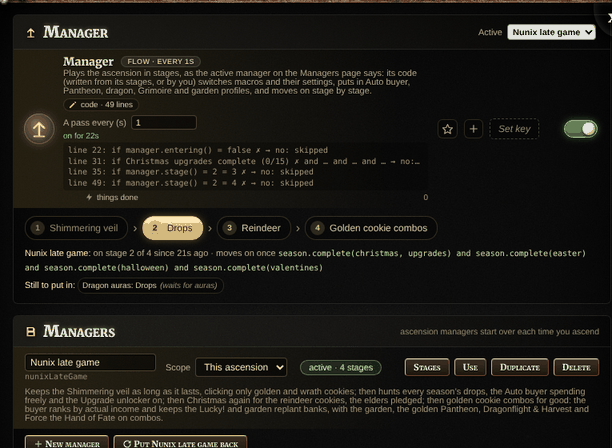
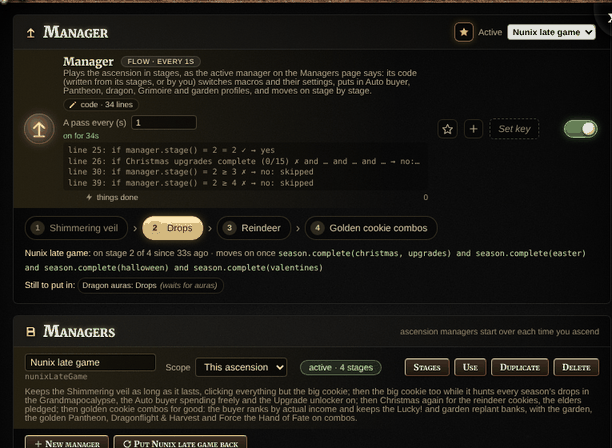
README refresh after the managers batch; restore a missing } in styles.css
The rule before the Manager widget's styles had lost its closing brace, so the
browser dropped every rule after it. GUIDE: one Managers section again.

Claude-Session: https://claude.ai/code/session_01ALSqfrVYPdvMWWjAoC9JVy

diff --git a/src/ui/styles.css b/src/ui/styles.css
@@ -9008,6 +9008,7 @@ body.ca-has-storebar #products {
 }
 #CookieMgrMenu .ca-code-gutter {
   cursor: default;
+}
 /* Manager widget: what the active manager is doing */
 #CookieMgrWidgets .ca-mw,
 #CookieMgrMenu .ca-wsample .ca-mw {

diff --git a/docs/GUIDE.md b/docs/GUIDE.md
@@ -216,6 +216,12 @@ condition, value and keyword, searchable — click one to insert it (into the co
 step), ★ to pin it at the top. Its **Lookup** tab lists the names that go inside the parentheses — spells, effects,
 macros, seasons, buildings, soils… — each with where it's used; click one to write it where the cursor is.
 
+**Code is colored by where each word comes from** — in every editor, the library beside it and the Statistics page:
+**cyan** is read straight from the game (`cookies()`, `stock.price(…)`, buildings, spells, effects), **lilac** is worked
+out by cookieMgr (`item.payback()`, `golden.expected()`, banks, the Auto buyer's queue), **pink** is a statistic
+(`stat.…`; yours are underlined), **white italic** a function (`fmt.number(x)`, `count(list)`) and **yellow** a macro
+or profile named in ( ). Actions are green, conditions blue, keywords orange. A legend under each editor says so.
+
 **Hover any word of code** — in a macro, a statistic, the gardener's rules, or a statistic's code on the Statistics
 page — and a card says what it is: an action or condition (what it does with the options written there), a value
 (and what it is now), a keyword, a variable (where it's set), a macro (`switch on golden`: its name, what it does,
@@ -417,6 +423,12 @@ The **Managers** page has:
 - **Code**: a manager is code. The stage editor writes it, a block per stage, and the Manager macro runs it each
   second. Change it and Save to make it yours (the stage editor is then off until **Back to stages**).
 
+Each stage also has **Widget watches**: what the **Manager widget** (see Widgets) shows while that stage is on. A
+watch is a label, a value in the macro language and how to show it: **as it is**, **a time** (seconds, e.g.
+`golden.expected()`), **a share** (0–1, e.g. `garden.matureShare()`) or **progress** (`[have, of]`, e.g.
+`[owned(easter), total(easter)]`, or 0–100), drawn with a bar. Its value now shows beside it. The ☆ on the Manager
+card puts the widget on the left panel.
+
 **Nunix late game** comes seeded and active:
 
 1. **Shimmering veil**, while it lasts: golden and wrath cookies and reindeer clicked, but not the big cookie
@@ -432,86 +444,16 @@ The **Managers** page has:
 
 The Auto buyer buys by payback, so it doesn't buy research or upgrades that give no CpS; the Upgrade unlocker does.
 
-Words: `manager.active()`, `manager.stage()`, `manager.stageName()`, `manager.entering()`, `manager.arriving(stage)`,
-`manager.stages()`, `manager.list()`. Actions: `manager.use(manager)`, `manager.goTo(stage)`, `manager.next()`,
-`manager.profile(kind, profile)`, `macro.setting(macro, key, value)`. `switch on a, b, c` switches several macros in
-one line, and `veil()` tells whether the Shimmering veil is up.
-
-### Payback periods
-
-cookieMgr works payback periods out itself — the numbers Cookie Monster shows, without Cookie Monster. What a
-purchase adds is asked of the game: cookieMgr makes the change (one more building, ten, a hundred, an upgrade
-bought), runs the game's own CpS calculation, reads the result and undoes it — so the numbers are exact for any game
-version, and it counts the achievements the purchase would win (their milk makes kittens stronger), as Cookie Monster
-does. The payback period is Cookie Monster's: **time until you can afford it + price ÷ the CpS it adds**. Colors
-follow Cookie Monster's too: blue (better than the best building), green (the best building), yellow / orange / red
-(within the 10 / 20 / 30 best building payback periods, counting ×1, ×10 and ×100), purple (worse), gray (never pays
-back). It's checked against Cookie Monster itself in the real game (the simulator's parity test): every building at
-×1, ×10 and ×100 and every upgrade in the store, the same to the last digit.
-
-Payback periods read in time units: seconds, then minutes, hours, days and years, the next unit only once the
-number passes 999 (999 s, then 16.7 min), so they keep three digits. **Payback periods in** (the Payback page's
-Options) switches them back to plain seconds, Cookie Monster's way (999, 1K).
-
-**Pet the dragon** gets the dragon's four drops (Dragon scale, claw, fang, teddy bear): each pet has a 1 in 20 chance,
-and which one drops depends only on the quarter of the hour, in an order fixed per run. It learns that order by petting
-(it never reads your save's seed): in a quarter it hasn't tried, or whose drop you're still missing, it opens the dragon,
-pets it until something drops (200 pets with nothing: that quarter's drop is one you have), and closes it again; its
-button says what this quarter-hour gives, as far as it knows, and when the next quarter worth trying comes. Needs dragon level 8 and the "Pet the dragon" upgrade.
-
-**Running** at the top of the page is a strip with a chip per running macro (warmer the busier it is — click one to
-find its card, × to stop it) and **Stop all**. A running macro's card shows, for each of its actions, how many things
-it has done and when it last did something (or that it can't run right now).
-
-**Hotkeys** — every macro can have one; one key can trigger several macros at once (binding a key that's in use shares
-it). Modifiers work (`Shift + G`): click a key chip and press the new key (`Esc` cancels, `Backspace` clears).
-
-**Favorites** — the ★ on a macro gives it its own button on the left panel (see Widgets).
-
-### Managers
-
-A **manager** plays an ascension for you in **stages**. Each stage switches macros on or off, sets their settings
-(Research's "stop before", SeasonCompletion's last season…), puts in the Auto buyer, Pantheon, dragon, Grimoire and
-garden profiles it names, then lasts **until** a condition in the macro language holds (the last stage lasts for
-good). Entering a stage switches its macros once, so you can still flip one by hand; its profiles are retried each
-pass until they're in, then left alone. These are **ascension managers**: ascending starts them over at stage 1.
-
-The **Managers** page has:
-
-- **Manager**: the **Manager** macro's switch and which manager is active, its stages in a strip (the one it's on
-  is lit; click one to go there), what it moves on once, and what it still has to put in.
-- **Managers**: rename, scope, **Use**, **Duplicate**, **Delete**, **New manager** and **Put Nunix late game back**.
-- **Stages**: for the shown manager, each stage's name, macro chips (click: left as it is → on → off), their
-  settings, profile pickers and **Until**.
-- **Code**: a manager is code. The stage editor writes it, a block per stage, and the Manager macro runs it each
-  second. Change it and Save to make it yours (the stage editor is then off until **Back to stages**).
-
-Each stage also has **Widget watches**: what the **Manager widget** (see Widgets) shows while that stage is on. A
-watch is a label, a value in the macro language and how to show it: **as it is**, **a time** (seconds, e.g.
-`golden.expected()`), **a share** (0–1, e.g. `garden.matureShare()`) or **progress** (`[have, of]`, e.g.
-`[owned(easter), total(easter)]`, or 0–100), drawn with a bar. Its value now shows beside it. The ☆ on the Manager
-card puts the widget on the left panel.
-
-**Nunix late game** comes seeded and active:
-
-1. **Shimmering veil**, while it lasts: golden and wrath cookies clicked, but not the big cookie or reindeer
-   (clicking them breaks the veil); the Auto buyer, the Upgrade unlocker, SeasonCompletion, wrinklers and sugar
-   lumps; Pantheon wrinklers, dragon drops.
-2. **Drops**: the same, with the big cookie and reindeer clicked too, until Christmas's upgrades, Easter,
-   Halloween and Valentine's day are in.
-3. **Reindeer**: Christmas again for its cookies, with the elders pledged and Dragon drops & flight.
-4. **Golden cookie combos**, for good: the Auto buyer's Golden cookie combos profile, 8 nursetulips together +
-   clover combos in the garden, the golden Pantheon, Dragonflight & Harvest, and Force the Hand of Fate on combos.
-
 Its stages watch: the next golden cookie, the Easter eggs and Santa's level (Shimmering veil); Santa, the
 Grandmapocalypse and the next golden cookie (Drops); the reindeer cookies and the next reindeer (Reindeer); the combo
 on, the magic for Force the Hand of Fate, what the Auto buyer buys next and how much of the garden is mature (Golden
 cookie combos).
 
-Words: `manager.active()`, `manager.stage()`, `manager.stageName()`, `manager.entering()`, `manager.stages()`,
-`manager.list()`. Actions: `manager.use(manager)`, `manager.goTo(stage)`, `manager.next()`,
+Words: `manager.active()`, `manager.stage()`, `manager.stageName()`, `manager.entering()`, `manager.arriving(stage)`,
+`manager.stages()`, `manager.list()`. Actions: `manager.use(manager)`, `manager.goTo(stage)`, `manager.next()`,
 `manager.profile(kind, profile)`, `macro.setting(macro, key, value)`. `switch on a, b, c` switches several macros in
 one line, and `veil()` tells whether the Shimmering veil is up.
+
 
 ### Payback
 

diff --git a/README.md b/README.md
@@ -84,7 +84,7 @@ the page. [See every page with a screenshot](#pages).
 <td width="50%" valign="top">
 <b>Payback</b><br>
 <img src="docs/readme/payback.png" alt="The Payback page" width="100%">
-<ul><li>An exact payback period for every building and upgrade</li><li>The Auto buyer: a queue, profiles with rules, and a bank reserve</li><li>Buy all upgrades in one click, ranked in the queue by its own payback period</li></ul>
+<ul><li>An exact payback period for every building and upgrade</li><li>The Auto buyer: a queue, profiles with rules, and a bank reserve</li><li>Payback measured by CpS, clicking, or what you actually took in over the last 15 min, 1 h or 3 h</li><li>Buy all upgrades in one click, ranked in the queue by its own payback period</li></ul>
 </td>
 <td width="50%" valign="top">
 <b>Garden</b><br>
@@ -120,24 +120,25 @@ the page. [See every page with a screenshot](#pages).
 <td width="50%" valign="top">
 <b>Statistics</b><br>
 <img src="docs/readme/statistics.png" alt="The Statistics page" width="100%">
-<ul><li>Choose the lines the store's tooltips show</li><li>Write your own statistics, with a live preview</li><li>Pick how payback is measured</li></ul>
+<ul><li>Choose the lines the store's tooltips show</li><li>Write your own statistics, with a live preview, in code colored by where each word comes from</li><li>Pick how payback is measured</li></ul>
 </td>
 <td width="50%" valign="top">
 <b>Macros</b><br>
 <img src="docs/readme/macros.png" alt="The Macros page" width="100%">
-<ul><li>Autoclickers for the big cookie, golden and wrath cookies, reindeer, fortunes and wrinklers</li><li>The Upgrade unlocker: one switch for Santa, Research, the dragon, fortunes and cheap upgrades</li><li>Alerts, hotkeys and buttons on the left panel</li><li>Write your own macros in cookieMgr's simple code, and hover any word in it to see what it is</li></ul>
+<ul><li>Autoclickers for the big cookie, golden and wrath cookies, reindeer, fortunes and wrinklers</li><li>The Upgrade unlocker: one switch for Santa, Research, the dragon, fortunes and cheap upgrades</li><li>Alerts, hotkeys and buttons on the left panel</li><li>Write your own macros in cookieMgr's simple code: colored by where each word comes from, and hover any word to see what it is</li></ul>
 </td>
 </tr>
 <tr>
 <td width="50%" valign="top">
 <b>Managers</b><br>
 <img src="docs/readme/managers.png" alt="The Managers page" width="100%">
-<ul><li>A manager plays an ascension in stages: each one switches macros, puts in profiles, and lasts until a condition holds</li><li>Nunix late game comes ready: Shimmering veil, season drops, reindeer, then golden cookie combos</li><li>Edit the stages, or the code they write</li></ul>
+<ul><li>A manager plays an ascension in stages: stage 1 sets things up, each later stage changes only what it needs, and moves on when a condition holds</li><li>Nunix late game comes ready: Shimmering veil, season drops, reindeer, then golden cookie combos</li><li>The Manager widget shows the stage, what moves it on, the numbers it watches and the macros at work</li><li>Edit the stages, or the code they write</li></ul>
+<img src="docs/readme/manager-widget.png" alt="The Manager widget" width="50%">
 </td>
 <td width="50%" valign="top">
 <b>Widgets</b><br>
 <img src="docs/readme/widgets.png" alt="The Widgets page" width="100%">
-<ul><li>Place macro buttons, golden cookie odds, effect timers, charts and more on the left panel</li><li>Place any widget more than once, each copy with its own settings</li><li>Save and switch layouts</li></ul>
+<ul><li>Place macro buttons, golden cookie odds, effect timers, charts, the Manager and more on the left panel</li><li>Place any widget more than once, each copy with its own settings</li><li>Save and switch layouts</li></ul>
 </td>
 </tr>
 <tr>

diff --git a/changes/readme-batch-refresh.md b/changes/readme-batch-refresh.md
@@ -1,0 +1,11 @@
+---
+bump: patch
+---
+
+- **Fixed:** the Manager widget, the code color legend and the word hover cards had no styling: a missing `}` in
+  the stylesheet dropped every rule after it.
+- **README:** new Managers, Macros, Statistics, Payback and Widgets screenshots and a Manager widget picture; the
+  summaries mention code colors, the actual-income payback modes, stages that build on each other and the Manager
+  widget.
+- **Guide:** the Managers section, duplicated in the middle of the Macros section, is one section again, with the
+  Manager widget's watches; a paragraph on code colors.
